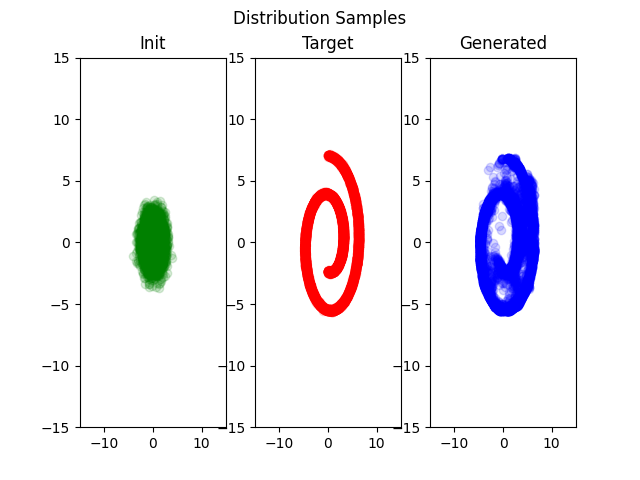
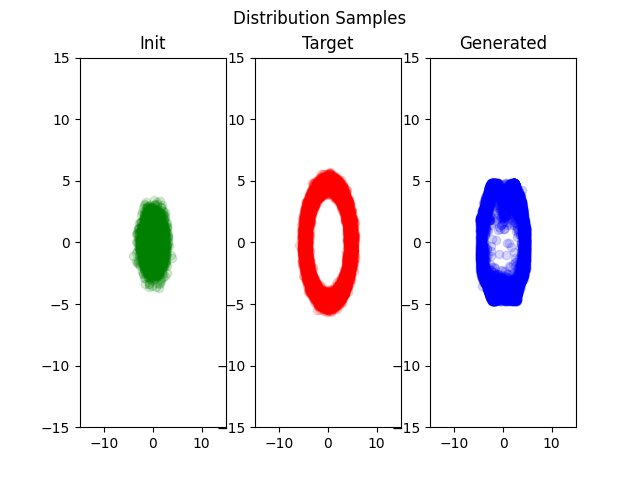
TT-RecFlow with circles data

Changed region(s): [[0.4375, 0.3125, 0.5938, 0.6562], [0.7188, 0.3125, 0.8438, 0.6562]]

diff --git a/tt_rectified_flow/tt_rectified_flow.py b/tt_rectified_flow/tt_rectified_flow.py
@@ -1,13 +1,16 @@
 """TODO
-    1. Make dist figure 3 cols : pi0 pi1 and pi1_gen
-    2. Use GeomLoss Sinkhorn
+    1. Make dist figure 3 cols :
+        pi0 pi1 and pi1_gen             DONE
+    2. Use GeomLoss Sinkhorn            DONE
+    3. Use Swissroll 2D data            DONE
+    4. Use Circles Data                 In-Progress
 """
 import random
 
 import torch
 import numpy as np
 import matplotlib.pyplot as plt
-from sklearn.datasets import make_swiss_roll
+from sklearn.datasets import make_swiss_roll, make_circles
 from torch.distributions import Categorical
 from torch.distributions.multivariate_normal import MultivariateNormal
 from torch.distributions.mixture_same_family import MixtureSameFamily
@@ -49,7 +52,7 @@ def mask_nan(x: torch.Tensor):
 
 
 def remove_outliers(x: torch.Tensor):
-    alpha = 0.01
+    alpha = 0.05
     B, D = x.shape[0], x.shape[1]
     mask = torch.tensor([True] * B)
 
@@ -216,7 +219,8 @@ if __name__ == '__main__':
     # 1 ) https://github.com/Jmkernes/Diffusion/blob/main/diffusion/ddpm/main.py#L44
     # 2 ) https://github.com/MaximeVandegar/Papers-in-100-Lines-of-Code/blob/main/Deep_Unsupervised_Learning_using_Nonequilibrium_Thermodynamics/diffusion_models.py#L12
     # 3 ) https://github.com/mbaddar1/Diffusion/blob/281e453d66d413976bc069c75d736c6df3c4a9de/diffusion/ddpm/main.py#L50
-    samples_1 = torch.tensor(make_swiss_roll(n_samples=n_samples, noise=1e-1)[0][:, [0, 2]] / 2.0)
+    # samples_1 = torch.tensor(make_swiss_roll(n_samples=n_samples, noise=1e-1)[0][:, [0, 2]] / 2.0)
+    samples_1 = torch.tensor(make_circles(n_samples=n_samples, shuffle=True, factor=0.9,noise=0.05)[0]*5.0)
     # plot the samples
 
     plt.figure(figsize=(4, 4))
@@ -284,8 +288,8 @@ if __name__ == '__main__':
 
     print(f"Starting tt fitting")
     # TT parameters
-    tt_rank = 6
-    degree = 16
+    tt_rank = 7
+    degree = 10
     degrees = [degree] * (d + 1)  # hotfix by charles that made the GMM work
     ranks = [1] + [tt_rank] * d + [1]
 
@@ -374,4 +378,18 @@ Rank        Deg         Sinkhorn
 6           14          0.08
 6           15          0.09
 6           16          0.06 *
+------------------------------------------
+ii)
+Model : TT-Recflow with legendre poly 
+Dataset : Circles
+Opt : Fixed Rank TT-ALS
+Numerically
+Ref sinkhorn divergence = 0.01
+Rank        Deg         Sinkhorn
+6           10          0.76
+6           15          0.63
+7           10          0.74 *
+-----------------------------------------
+iii)
+
 """
